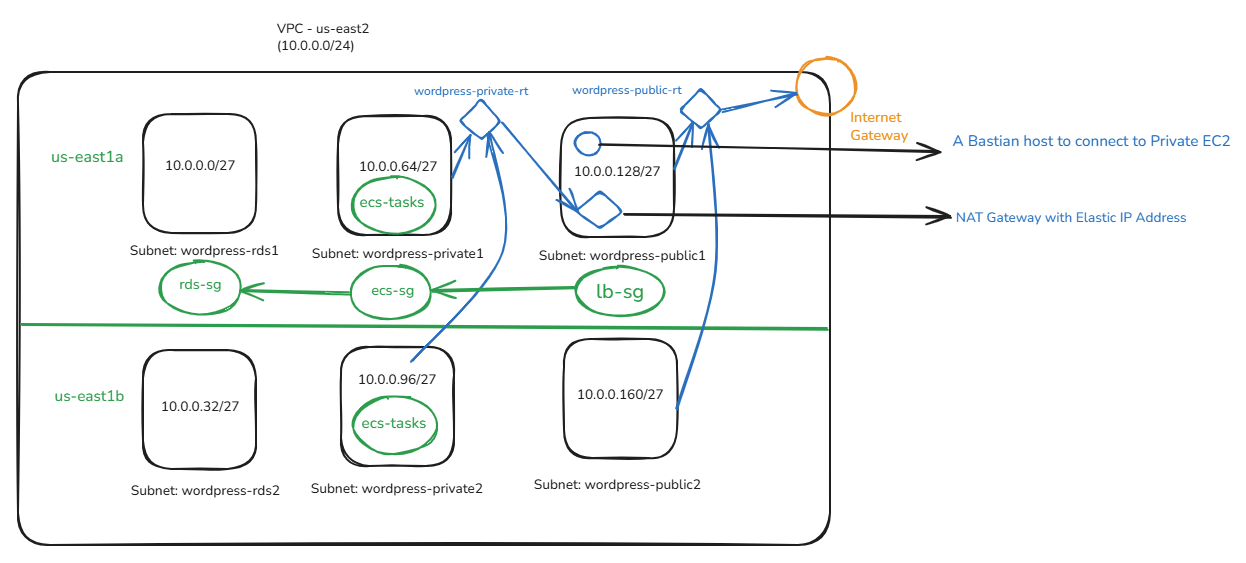
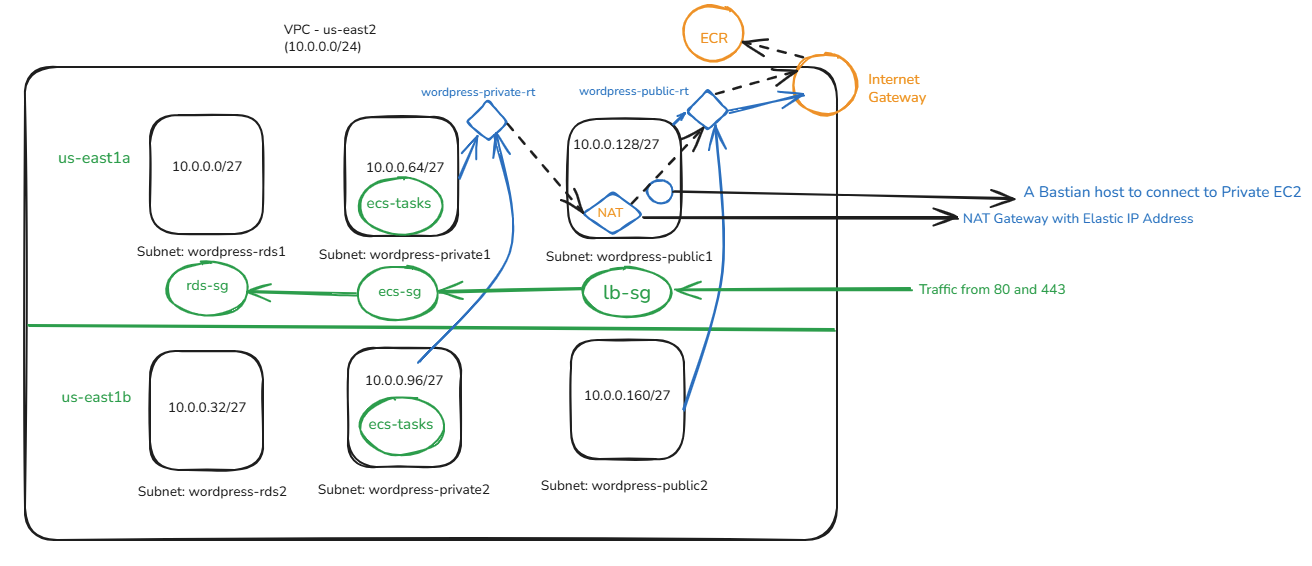
Deployment success

Changed region(s): [[0.0, 0.0, 1.0, 0.9964], [0.0915, 0.6341, 0.122, 0.6643]]

diff --git a/class6-assignment/3-tier containerized application on AWS ECS.md b/class6-assignment/3-tier containerized application on AWS ECS.md
@@ -15,7 +15,7 @@
 ![alt text](Screenshots/image-54.png)
 ![alt text](Screenshots/image-55.png)
 
-5. Edited the public route table and attached the internet gateway so that public subnet can connect to outside world via Internet. 
+5. Edited the public route table and attached the internet gateway so that public subnet can connect to outside world via Internet and actually become public.
 
 ![alt text](Screenshots/image-56.png)
 
@@ -53,21 +53,31 @@ configure-aws-IAM.md
 
 13. Under ECS cluster, created service to run 2 tasks, created a new load balancer with target group on port 8000(can be created seperately). Deployment failed with path issues to ECR. As tasks suppose to die and new tasks will come up. Hence, we can not use a static ip address for a task, rather we need to have a load balancer(which is static and basically a VM which is configured with nginx) and map the domain name with load balancer. Loadbalancer will automatically distribute the traffic to ecs tasks and will have target groups using ports(used by application) to connect to ecs tasks and we need to have a login page in the health checks so that while accessing our application, we should land on our login page or we can configure our application to have a endpoint as a health check. 
 
-14. Load Balancer will go to Target group, which will connect to port 8000, target group is responsible to check and if found anything unhealthy, bring it down and if tasks is healthy, go to the login page. 
+14. Load Balancer will go to Target group, which will connect to port 8000, target group is responsible to check and if found anything unhealthy, bring it down and if tasks is healthy, go to the login page. Load Balancer will be listening on port 80 & 443(secure connections which secure SSL certs)
 
 ![alt text](Screenshots/image-67.png)
 
 ![alt text](Screenshots/image-68.png)
 
-15. Hence, we have created a NAT Gateway, attach it to our route table for private subnet. Update the service with 0 tasks and rerun the deployment(if failed alerady). It will clear all tasks.
+15. Hence, we have created a NAT Gateway in public subnet under our VPC and attach it to our route table for private subnet. Update the service with 0 tasks and rerun the deployment(if failed alerady). It will clear all tasks. 
+
+** NAT Gateway is also required because the tasks are using a image from ECR repositories via route table for private subnet and ECR is a different service and not hosted on VPC. For connecting ECR, either via public internet or connect via a private configured path. Here, in my diagram, Privtae RT >> Connecting to NAT Gatway in Public Subnet >> And it's using Public RT along with Internet Gateway >> to connect to ECR. (Block Dotted lines in the Complete Diagram)
 
 16. Updated the service with 2 tasks and rerun the deployment. Tasks were running but getting failed automatically. 
 
-17. Created Security groups for ECS, Loadbalancer and RDS. Edited the ECS SG with a new inbound rule for port 8000 from LB-SG. Updated the Security group for Load Balancer, Database. Edited the inbound rule for RDS SG to listen from ECS SG on port 5432. 
+17. Created Security groups for ECS, Loadbalancer and RDS. Edited the ECS SG with a new inbound rule for port 8000 from LB-SG. Updated the Security group for Load Balancer, Database. Edited the inbound rule for RDS SG to listen from ECS SG on port 5432. Connected them properly.
 
 ![alt text](Screenshots/image-61.png)
 
 18. Rerun the deployment with force. Tasks are running but keep getting failed. Checked the logs and it seems that as per step 14, target group is keep on finding the tasks as unhealthy and killing them. 
+
+![alt text](Screenshots/image-69.png)
+
+19. Updated the tasks to get a Public IP Address for further testing. Rerun the deployment and tasks are running fine, with Healthy Target groups. 
+
+![alt text](image.png)
+
+![alt text](image-1.png)
 
 Complete Diagram:
 
